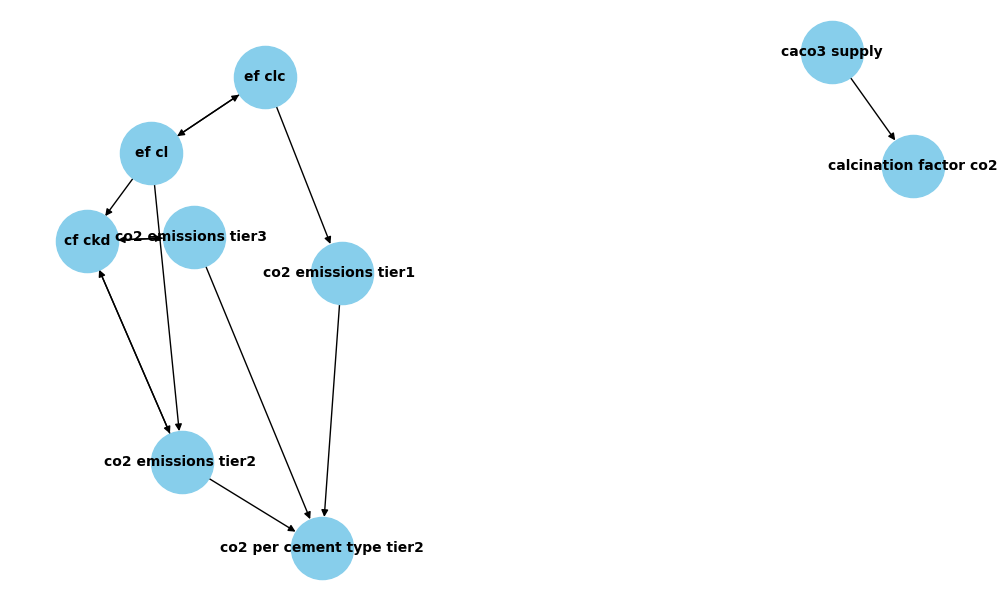
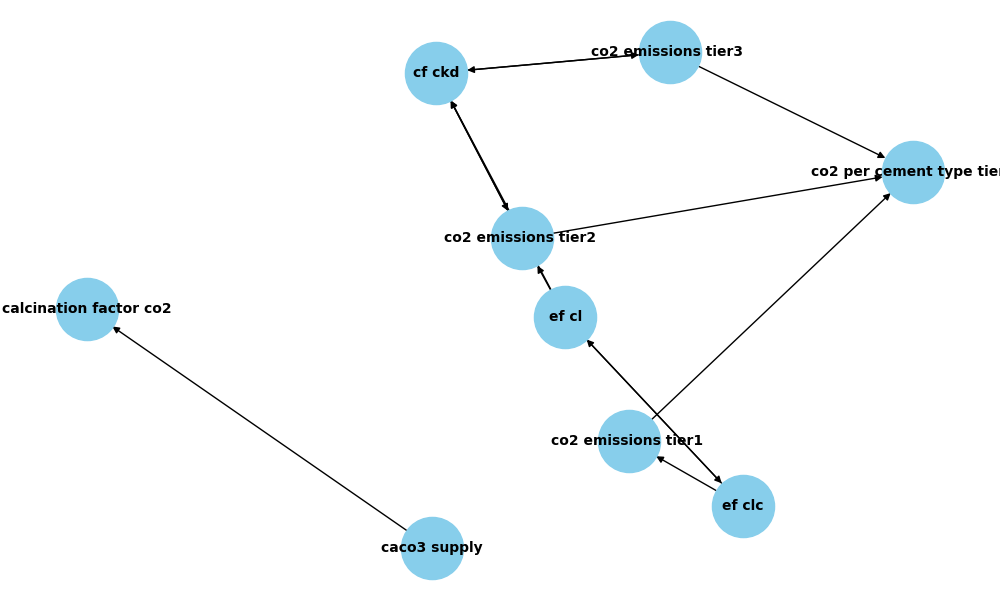
update readme parser and visualization

diff --git a/src/file_parser.py b/src/file_parser.py
@@ -15,7 +15,7 @@ def parse_python_file(file_path, naming_convention):
                 function_name = node.name
                 # Split function name based on naming convention
                 split_function_name = re.split(naming_convention, function_name)
-                if len(split_function_name) == 1 or (len(split_function_name) > 1 and any(split_function_name)):
+                if len(split_function_name) > 1:
                     parameters = [arg.arg for arg in node.args.args]
                     returns = []
                     for statement in node.body:

diff --git a/src/visualization.py b/src/visualization.py
@@ -17,7 +17,7 @@ def visualize_relationships(relationships, output_file):
 
         # Visualize the graph
         plt.figure(figsize=(10, 6))
-        pos = nx.spring_layout(G)  # Layout algorithm
+        pos = nx.spring_layout(G, k=0.4, iterations=25)  # Layout algorithm
         nx.draw(G, pos, with_labels=True, node_size=2000, node_color="skyblue", font_size=10, font_weight="bold")
         plt.title("Function Relationships Graph")
         plt.savefig(output_file)  # Save the plot as a PNG file

diff --git a/README.md b/README.md
@@ -1,1 +1,9 @@
 Run "pip install -r requirements.txt" to install all the requirements for this script
+
+Then you can run the main file in the src folder to run the program.
+
+There are two arguments that can be set, but is not nessecary to run the script. 
+
+The arguments are:
+"--naming-convention" sets which separator is used in the naming convention. Default is '_'
+"file_path" sets the path to the file that is to be parsed. default is the elementary.py file. 
